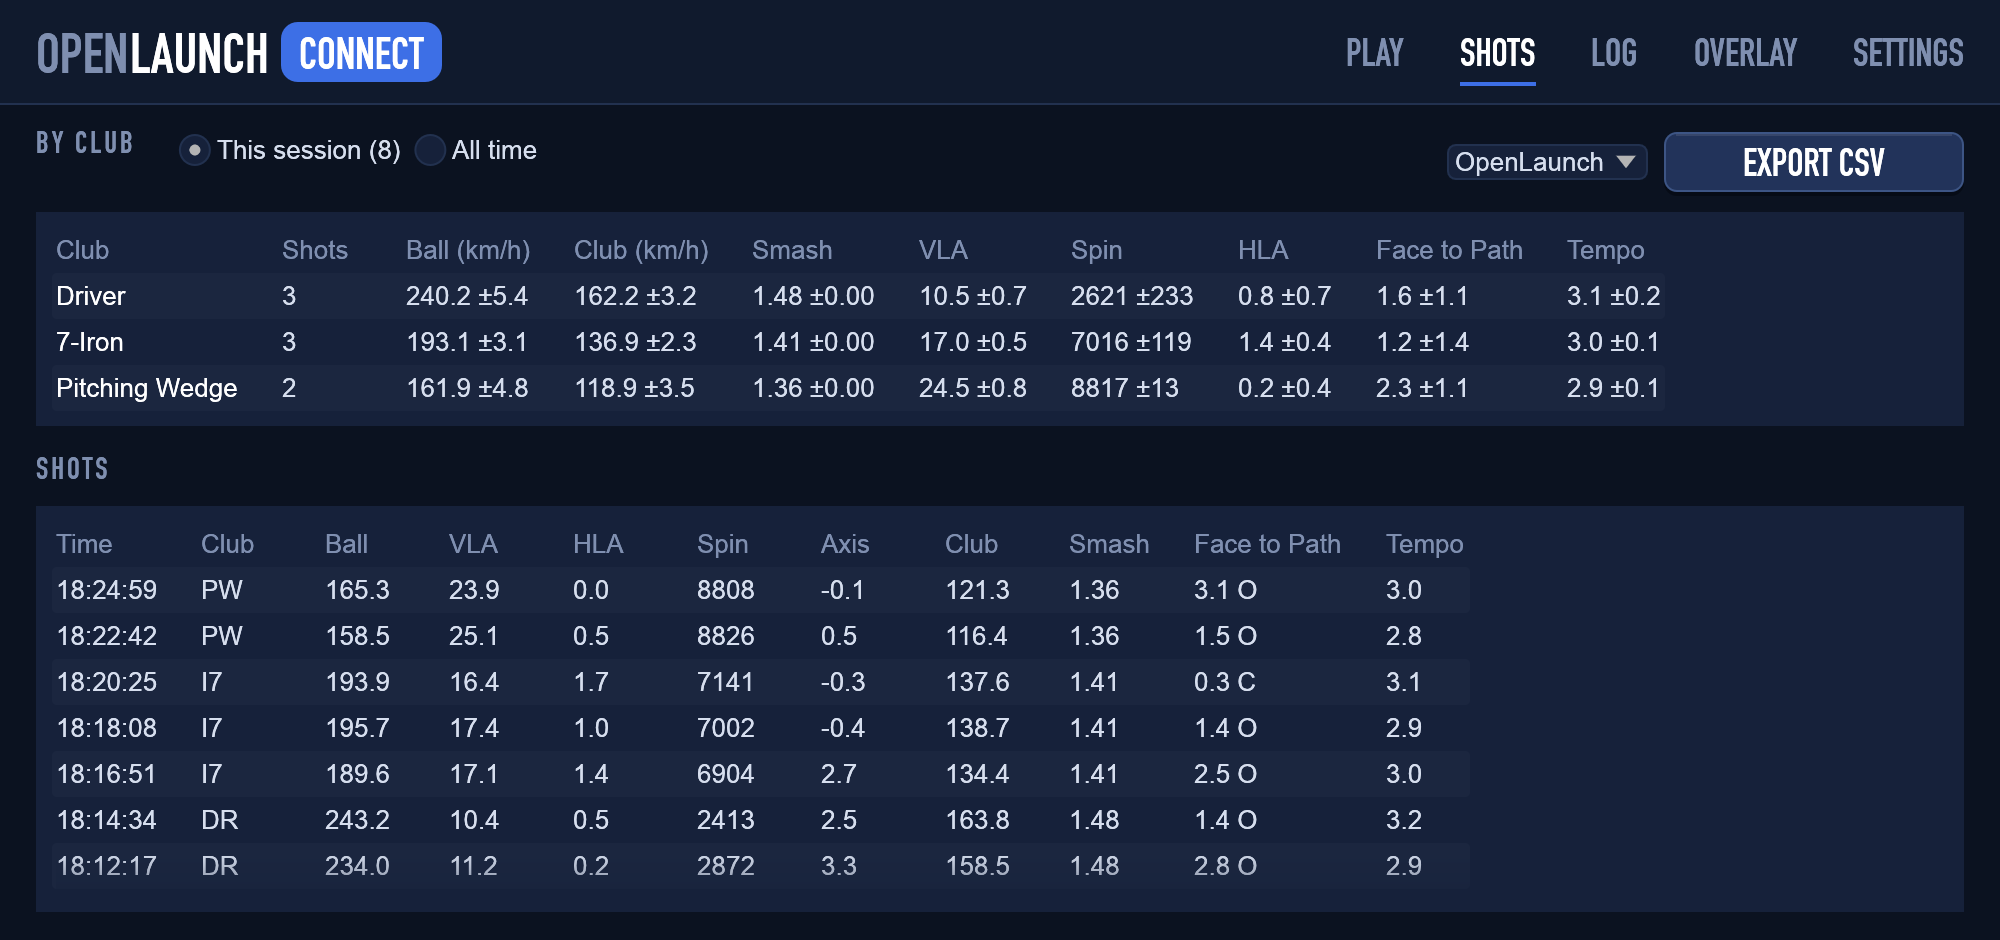
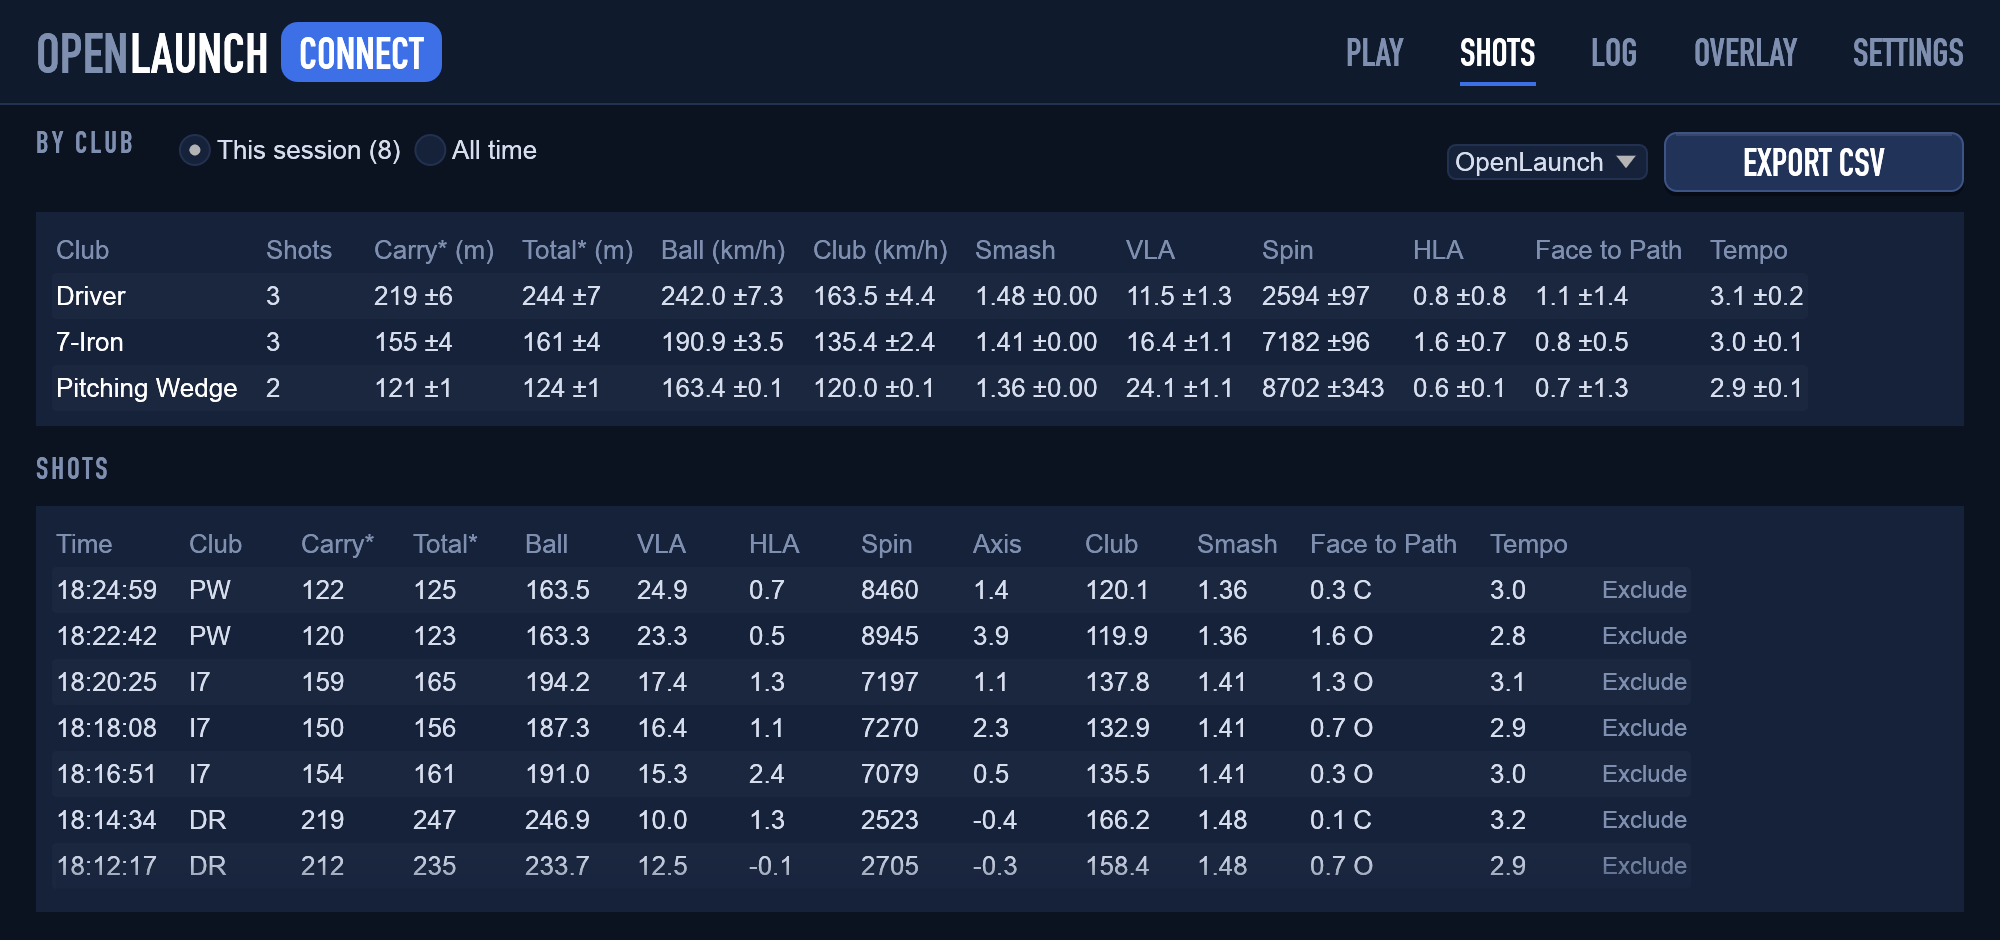
Ball flight model: estimated carry and total on the shots page
flight::fly() integrates the launch data in 3D (drag and lift from the spin
factor, spin decay, no wind) and adds a rough roll-out: carry, total, apex,
lateral, descent and the path for later views. The shots page shows Carry*
and Total* per shot and per club (m or yd).

diff --git a/src/flight.rs b/src/flight.rs
@@ -1,0 +1,146 @@
+//! Estimated ball flight from the launch data. GSPro doesn't send its flight results back, so
+//! carry, roll-out, apex and lateral are estimated here: drag and lift from the spin factor,
+//! integrated in 3D (no wind, sea level, 20 °C). Fit to typical launch-monitor carries
+//! (~213 m for a 149 mph driver, ~159 m for a 120 mph 7-iron); the roll-out is a rough guess.
+//!
+//! Coordinates in metres: x to the right, y up, z towards the target.
+
+use crate::mapping::GsBall;
+
+/// Ball mass (kg) and radius (m), air density (kg/m³).
+const MASS: f64 = 0.045_93;
+const RADIUS: f64 = 0.021_35;
+const AIR: f64 = 1.2;
+const GRAVITY: f64 = 9.81;
+/// Integration step (s) and the longest flight considered.
+const DT: f64 = 0.02;
+const MAX_TIME: f64 = 12.0;
+/// Spin lost per second in flight.
+const SPIN_DECAY: f64 = 0.04;
+const MPH_TO_MS: f64 = 0.447_04;
+
+/// Estimated flight of one shot.
+#[derive(Debug, Clone, PartialEq)]
+pub struct Flight {
+    /// Points along the flight, one per integration step, from the tee to the landing point.
+    pub path: Vec<[f64; 3]>,
+    /// Distance towards the target where the ball lands (m).
+    pub carry: f64,
+    /// Lateral offset where the ball lands, right positive (m).
+    pub carry_side: f64,
+    /// Highest point (m).
+    pub apex: f64,
+    /// Time in the air (s).
+    pub hang_time: f64,
+    /// Angle of descent at landing (degrees).
+    pub descent: f64,
+    /// Distance towards the target after the roll-out (m).
+    pub total: f64,
+    /// Lateral offset after the roll-out, right positive (m).
+    pub total_side: f64,
+}
+
+/// Estimate the flight of a ball with GSPro's conventions (speed in mph, angles in degrees,
+/// HLA and spin axis positive to the right).
+#[must_use]
+pub fn fly(ball: &GsBall) -> Flight {
+    let area = std::f64::consts::PI * RADIUS * RADIUS;
+    let (vla, hla, axis) = (ball.vla.to_radians(), ball.hla.to_radians(), ball.spin_axis.to_radians());
+    let speed = ball.speed * MPH_TO_MS;
+    let mut v = [speed * vla.cos() * hla.sin(), speed * vla.sin(), speed * vla.cos() * hla.cos()];
+    let mut p = [0.0_f64; 3];
+    let mut spin = ball.total_spin.max(0.0) * std::f64::consts::TAU / 60.0;
+    // Spin axis direction: backspin around −x, tilted by the spin axis (positive curves right).
+    let (ox, oy) = (-axis.cos(), axis.sin());
+    let (mut t, mut apex) = (0.0, 0.0_f64);
+    let mut path = vec![p];
+    while p[1] >= 0.0 && t < MAX_TIME {
+        let sp = (v[0] * v[0] + v[1] * v[1] + v[2] * v[2]).sqrt().max(0.1);
+        let s = spin * RADIUS / sp;
+        let cd = 0.19 + 0.3 * s;
+        let cl = (1.6 * s / (1.0 + 5.0 * s) + 0.05).min(0.3);
+        let k = 0.5 * AIR * area * sp / MASS;
+        // Lift along ω × v (unscaled; |ω| = 1).
+        let lift = [oy * v[2], -ox * v[2], ox * v[1] - oy * v[0]];
+        v[0] += (-k * cd * v[0] + k * cl * lift[0]) * DT;
+        v[1] += (-k * cd * v[1] + k * cl * lift[1] - GRAVITY) * DT;
+        v[2] += (-k * cd * v[2] + k * cl * lift[2]) * DT;
+        for i in 0..3 {
+            p[i] += v[i] * DT;
+        }
+        t += DT;
+        spin *= 1.0 - SPIN_DECAY * DT;
+        apex = apex.max(p[1]);
+        path.push([p[0], p[1].max(0.0), p[2]]);
+    }
+
+    // Roll-out (rough): faster and flatter landings with less spin roll further, along the
+    // landing direction.
+    let vh = (v[0] * v[0] + v[2] * v[2]).sqrt();
+    let descent = (-v[1]).atan2(vh).to_degrees();
+    let rpm = spin * 60.0 / std::f64::consts::TAU;
+    let roll = vh * 2.5 * (1.0 - descent / 65.0).max(0.0) * (1.0 - rpm / 9000.0).max(0.25);
+    let (dx, dz) = if vh > 0.0 { (v[0] / vh, v[2] / vh) } else { (0.0, 1.0) };
+    Flight {
+        path,
+        carry: p[2],
+        carry_side: p[0],
+        apex,
+        hang_time: t,
+        descent,
+        total: p[2] + roll * dz,
+        total_side: p[0] + roll * dx,
+    }
+}
+
+#[cfg(test)]
+mod tests {
+    use super::*;
+
+    fn ball(speed: f64, vla: f64, spin: f64, hla: f64, axis: f64) -> GsBall {
+        GsBall { speed, spin_axis: axis, total_spin: spin, back_spin: spin, side_spin: 0.0, hla, vla }
+    }
+
+    #[test]
+    fn carries_match_typical_launch_monitor_numbers() {
+        let driver = fly(&ball(149.0, 10.5, 2600.0, 0.0, 0.0));
+        let iron = fly(&ball(120.0, 16.3, 7100.0, 0.0, 0.0));
+        let wedge = fly(&ball(100.0, 24.0, 9000.0, 0.0, 0.0));
+        for (f, carry) in [(&driver, 213.0), (&iron, 159.0), (&wedge, 120.0)] {
+            assert!((f.carry - carry).abs() < 8.0, "carry {:.1} m, expected ~{carry} m", f.carry);
+            assert!(f.total > f.carry, "rolls out");
+            assert!(f.carry_side.abs() < 1e-9 && f.total_side.abs() < 1e-9, "straight");
+        }
+        // Higher, steeper and shorter roll with the shorter clubs.
+        assert!(driver.apex < wedge.apex + 15.0 && driver.apex > 15.0);
+        assert!(driver.descent < iron.descent && iron.descent < wedge.descent);
+        assert!(driver.total - driver.carry > wedge.total - wedge.carry);
+    }
+
+    #[test]
+    fn start_direction_and_spin_axis_move_the_ball_right() {
+        let start_right = fly(&ball(120.0, 16.0, 7000.0, 3.0, 0.0));
+        let fade = fly(&ball(120.0, 16.0, 7000.0, 0.0, 10.0));
+        let draw = fly(&ball(120.0, 16.0, 7000.0, 0.0, -10.0));
+        assert!(start_right.carry_side > 5.0);
+        assert!(fade.carry_side > 5.0, "positive axis curves right: {:.1}", fade.carry_side);
+        assert!((fade.carry_side + draw.carry_side).abs() < 1e-6, "mirrored");
+        assert!(fade.total_side > fade.carry_side, "rolls on to the right");
+    }
+
+    #[test]
+    fn path_runs_from_the_tee_to_the_landing_point() {
+        let f = fly(&ball(149.0, 10.5, 2600.0, 0.0, 0.0));
+        assert_eq!(f.path.first(), Some(&[0.0, 0.0, 0.0]));
+        let last = f.path.last().unwrap();
+        assert!((last[2] - f.carry).abs() < 1e-9 && last[1] == 0.0);
+        assert!(f.hang_time > 5.0 && f.hang_time < 8.0);
+    }
+
+    #[test]
+    fn a_dribble_does_not_hang() {
+        let f = fly(&ball(5.0, -10.0, 0.0, 0.0, 0.0));
+        assert!(f.carry >= 0.0 && f.carry < 1.0);
+        assert!(f.hang_time <= DT * 2.0);
+    }
+}

diff --git a/src/bin/openlaunch-connect.rs b/src/bin/openlaunch-connect.rs
@@ -12,6 +12,7 @@ use eframe::egui::{
     pos2, vec2,
 };
 use openlaunch_connect::engine;
+use openlaunch_connect::flight;
 use openlaunch_connect::gspro::Cmd;
 use openlaunch_connect::history::{self, ExportFormat, ShotRecord, Stat};
 use openlaunch_connect::i18n::{self, Language, tr, tr_detail};
@@ -24,6 +25,7 @@ use openlaunch_connect::update;
 
 const APP_NAME: &str = "OpenLaunch Connect";
 const MPH_TO_KMH: f64 = 1.609_344;
+const M_TO_YD: f64 = 1.093_613;
 const OVERLAY_TITLE: &str = "OpenLaunch Overlay";
 /// Size the layout is designed for. Larger windows zoom the whole UI uniformly, or, with a fixed
 /// interface size, give the pages more room.
@@ -513,6 +515,16 @@ impl App {
         let metric = self.saved.metric;
         let unit = if metric { "km/h" } else { "mph" };
         let speed = move |mph: f64| if metric { mph * MPH_TO_KMH } else { mph };
+        let dist_unit = if metric { "m" } else { "yd" };
+        let dist = move |m: f64| if metric { m } else { m * M_TO_YD };
+        // Header of an estimated column (marked with *) and what it means.
+        let estimated = tr("Estimated from the launch data (no wind, sea level); GSPro may show other numbers");
+        let header = |ui: &mut egui::Ui, h: &str| {
+            let r = ui.label(RichText::new(h).color(MUTED));
+            if h.contains('*') {
+                r.on_hover_text(estimated);
+            }
+        };
 
         ui.horizontal(|ui| {
             section(ui, tr("BY CLUB"));
@@ -567,10 +579,12 @@ impl App {
                 return;
             }
             egui::ScrollArea::vertical().id_salt("by_club").max_height(130.0).show(ui, |ui| {
-                egui::Grid::new("by_club_grid").num_columns(10).spacing([22.0, 5.0]).striped(true).show(ui, |ui| {
+                egui::Grid::new("by_club_grid").num_columns(12).spacing([14.0, 5.0]).striped(true).show(ui, |ui| {
                     for h in [
                         tr("Club").to_string(),
                         tr("Shots").into(),
+                        format!("{}* ({dist_unit})", tr("Carry")),
+                        format!("{}* ({dist_unit})", tr("Total")),
                         format!("{} ({unit})", tr("Ball")),
                         format!("{} ({unit})", tr("Club")),
                         tr("Smash").into(),
@@ -580,13 +594,15 @@ impl App {
                         tr("Face to Path").into(),
                         tr("Tempo").into(),
                     ] {
-                        ui.label(RichText::new(h).color(MUTED));
+                        header(ui, &h);
                     }
                     ui.end_row();
                     for c in history::club_stats(shots) {
                         let name = c.club_code.as_deref().map_or(tr("Unknown").to_string(), club_name);
                         ui.label(RichText::new(name).color(WHITE));
                         ui.label(c.shots.to_string());
+                        ui.label(fmt(c.carry, 0, &dist));
+                        ui.label(fmt(c.total, 0, &dist));
                         ui.label(fmt(c.ball_speed, 1, &speed));
                         ui.label(fmt(c.club_speed, 1, &speed));
                         ui.label(fmt(c.smash, 2, &id));
@@ -607,10 +623,13 @@ impl App {
         let mut toggled: Option<(String, u32, bool)> = None;
         egui::Frame::new().fill(TILE).inner_margin(Margin::same(10)).show(ui, |ui| {
             egui::ScrollArea::vertical().id_salt("shots").auto_shrink([false, false]).show(ui, |ui| {
-                egui::Grid::new("shots_grid").num_columns(12).spacing([22.0, 5.0]).striped(true).show(ui, |ui| {
+                let (carry_h, total_h) = (format!("{}*", tr("Carry")), format!("{}*", tr("Total")));
+                egui::Grid::new("shots_grid").num_columns(14).spacing([16.0, 5.0]).striped(true).show(ui, |ui| {
                     for h in [
                         tr("Time"),
                         tr("Club"),
+                        &carry_h,
+                        &total_h,
                         tr("Ball"),
                         "VLA",
                         "HLA",
@@ -622,7 +641,7 @@ impl App {
                         tr("Tempo"),
                         "",
                     ] {
-                        ui.label(RichText::new(h).color(MUTED));
+                        header(ui, h);
                     }
                     ui.end_row();
                     for s in shots.iter().rev() {
@@ -636,6 +655,9 @@ impl App {
                         let time = if s.delivered { cell(time) } else { cell(format!("{time} ✗")).color(AMBER) };
                         ui.label(time).on_hover_text(if s.delivered { tr("Delivered to GSPro") } else { tr("Not delivered to GSPro") });
                         ui.label(cell(s.club_code.as_deref().unwrap_or("–").into()));
+                        let f = flight::fly(&s.ball);
+                        ui.label(cell(format!("{:.0}", dist(f.carry))));
+                        ui.label(cell(format!("{:.0}", dist(f.total))));
                         ui.label(cell(format!("{:.1}", speed(s.ball.speed))));
                         ui.label(cell(num(s.ball.vla, 1)));
                         ui.label(cell(num(s.ball.hla, 1)));

diff --git a/src/history.rs b/src/history.rs
@@ -9,6 +9,7 @@ use std::sync::atomic::{AtomicBool, Ordering};
 
 use serde::{Deserialize, Serialize};
 
+use crate::flight::{self, Flight};
 use crate::mapping::{GsBall, GsClub, Tempo};
 use crate::settings::Settings;
 
@@ -416,6 +417,9 @@ pub struct ClubStats {
     pub face_to_path: Option<Stat>,
     /// Backswing : downswing ratio.
     pub tempo: Option<Stat>,
+    /// Estimated carry and total distance in metres (see `flight`).
+    pub carry: Option<Stat>,
+    pub total: Option<Stat>,
 }
 
 /// Per-club statistics of the shots that aren't excluded, in order of first use.
@@ -433,6 +437,7 @@ pub fn club_stats(shots: &[ShotRecord]) -> Vec<ClubStats> {
         .map(|code| {
             let group: Vec<&ShotRecord> = shots.iter().copied().filter(|s| s.club_code == code).collect();
             let clubs = || group.iter().filter_map(|s| s.club.as_ref());
+            let flights: Vec<Flight> = group.iter().map(|s| flight::fly(&s.ball)).collect();
             ClubStats {
                 shots: group.len(),
                 ball_speed: Stat::of(group.iter().map(|s| s.ball.speed)),
@@ -443,6 +448,8 @@ pub fn club_stats(shots: &[ShotRecord]) -> Vec<ClubStats> {
                 hla: Stat::of(group.iter().map(|s| s.ball.hla)),
                 face_to_path: Stat::of(clubs().map(|c| c.face_to_target - c.path)),
                 tempo: Stat::of(group.iter().filter_map(|s| s.tempo.map(|t| t.ratio()))),
+                carry: Stat::of(flights.iter().map(|f| f.carry)),
+                total: Stat::of(flights.iter().map(|f| f.total)),
                 club_code: code,
             }
         })
@@ -529,6 +536,10 @@ mod tests {
         // Club speed only from the tracked shot.
         assert_eq!(stats[0].club_speed, Some(Stat { mean: 84.0, sd: 0.0 }));
         assert_eq!(stats[1].face_to_path, Some(Stat { mean: 2.0, sd: 0.0 }));
+        // Estimated distances for every shot: the driver flies further.
+        let (iron, driver) = (stats[0].carry.unwrap(), stats[1].carry.unwrap());
+        assert!(iron.sd > 0.0 && driver.mean > iron.mean);
+        assert!(stats[1].total.unwrap().mean > driver.mean);
     }
 
     #[test]

diff --git a/src/i18n.rs b/src/i18n.rs
@@ -201,6 +201,9 @@ fn de(en: &str) -> Option<&'static str> {
         "Language" => "Sprache",
         "System" => "System",
         "Interface" => "Oberfläche",
+        "Carry" => "Carry",
+        "Total" => "Gesamt",
+        "Estimated from the launch data (no wind, sea level); GSPro may show other numbers" => "Geschätzt aus den Abflugdaten (ohne Wind, auf Meereshöhe); GSPro kann andere Werte zeigen",
         "Too large for this screen" => "Zu groß für diesen Bildschirm",
         "Auto" => "Auto",
         "Units" => "Einheiten",

diff --git a/src/lib.rs b/src/lib.rs
@@ -4,6 +4,7 @@
 //! R10 ──BLE──> bridge ──TCP 127.0.0.1:921──> GSPro
 
 pub mod engine;
+pub mod flight;
 pub mod gspro;
 pub mod history;
 pub mod i18n;

diff --git a/CLAUDE.md b/CLAUDE.md
@@ -16,6 +16,8 @@ Not affiliated with Garmin or GSPro – use trademarks descriptively only.
 
 - `src/lib.rs` – library used by both binaries
   - `engine.rs` – R10 thread (BLE, reconnect, events → status) and start of the GSPro thread; `test_shot()`, `demo_session()`
+  - `flight.rs` – estimated ball flight from the launch data (`fly()`: drag/lift from the spin factor, 3D,
+    no wind; rough roll-out) → carry, total, apex, lateral, descent, path. GSPro doesn't send its results back.
   - `gspro.rs` – OpenConnect client (`Link`), heartbeats, reconnect, reply parsing (codes 200/201/5xx)
   - `mapping.rs` – R10 data → OpenConnect (m/s → mph, **spin axis inverted**, back/side spin from total + axis), `Tempo`
   - `state.rs` – shared status for the GUI (R10/GSPro status, device, battery, last shot, session shots, club/hand, log)

diff --git a/CHANGELOG.md b/CHANGELOG.md
@@ -13,6 +13,11 @@ The format is based on [Keep a Changelog](https://keepachangelog.com/en/1.1.0/),
 - **Exclude shots:** *Exclude* next to a shot on the shots page leaves it out of the averages and CSV exports
   (e.g. a misread); it stays listed, struck through, and *Count* takes it back. Kept in the shot history.
 
+### Added
+- **Estimated carry and total distance** on the shots page, per shot and as averages per club (in m, or yards
+  with mph). GSPro doesn't send its own results back, so they are estimated from the launch data (no wind, sea
+  level) and marked with *; GSPro may show other numbers.
+
 ### Changed
 - **Interface size** (Settings → Display): *Auto* zooms the interface with the window as before; a fixed size of
   100, 125 or 150 % lets the window take any shape, and the pages use the extra room (larger tables, log and
